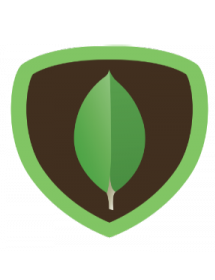
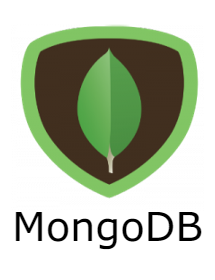
[Skills]: add Component, pictures and test

diff --git a/src/Components/Skills/Skills.jsx b/src/Components/Skills/Skills.jsx
@@ -1,0 +1,81 @@
+import React from "react";
+
+function Skills() {
+	return (
+		<section id="skills" className="pt-16 text-center">
+			<div className="blue-divider w-24 h-1 bg-blue mx-auto"></div>
+			<h2 className="my-2 uppercase ">Compétences</h2>
+			<div className="mt-16">
+				<div className="flex flex-col md:flex-row justify-center items-center">
+					<div className="mb-10 md:mb-16 md:mx-10">
+						<img className="w-1/2 mx-auto" src="/skills/html5.png" alt="Logo HTML5" />
+					</div>
+					<div className="mb-10 md:mb-16 md:mx-10">
+						<img className="w-1/2 mx-auto" src="/skills/css.png" alt="Logo CSS3" />
+					</div>
+					<div className="mb-10 md:mb-16 md:mx-10">
+						<img className="w-1/2 mx-auto" src="/skills/js.png" alt="Logo Javascript" />
+					</div>
+				</div>
+				<div className="flex flex-col md:flex-row justify-center items-center">
+					<div className="mb-10 md:mb-16 md:mx-10">
+						<img className="w-1/2 mx-auto" src="/skills/bootstrap.png" alt="Logo Bootstrap" />
+					</div>
+					<div className="mb-10 md:mb-16 md:mx-10">
+						<img className="w-1/2 mx-auto" src="/skills/sass.png" alt="Logo Sass" />
+					</div>
+					<div className="mb-10 md:mb-16 md:mx-10">
+						<img className="w-1/2 mx-auto" src="/skills/tailwind.png" alt="Logo Tailwind" />
+					</div>
+				</div>
+				<div className="flex flex-col md:flex-row justify-center items-center">
+					<div className="mb-10 md:mb-16 md:mx-10">
+						<img className="w-1/2 mx-auto" src="/skills/react.png" alt="Logo React" />
+					</div>
+					<div className="mb-10 md:mb-16 md:mx-10">
+						<img className="w-1/2 mx-auto" src="/skills/redux.png" alt="Logo Redux" />
+					</div>
+					<div className="mb-10 md:mb-16 md:mx-10">
+						<img className="w-1/2 mx-auto" src="/skills/next.png" alt="Logo NextJS" />
+					</div>
+				</div>
+				<div className="flex flex-col md:flex-row justify-center items-center">
+					<div className="mb-10 md:mb-16 md:mx-10">
+						<img className="w-1/2 mx-auto" src="/skills/node.png" alt="Logo Node" />
+					</div>
+					<div className="mb-10 md:mb-16 md:mx-10">
+						<img className="w-1/2 mx-auto" src="/skills/express.png" alt="Logo ExpressJS" />
+					</div>
+					<div className="mb-10 md:mb-16 md:mx-10">
+						<div className="skills-logo">
+							<img className="w-1/2 mx-auto" src="/skills/java.png" alt="Logo Java" />
+						</div>
+					</div>
+				</div>
+				<div className="flex flex-col md:flex-row justify-center items-center">
+					<div className="mb-10 md:mb-16 md:mx-10">
+						<img className="w-1/2 mx-auto" src="/skills/mongo.png" alt="Logo MongoDB" />
+					</div>
+					<div className="mb-10 md:mb-16 md:mx-10">
+						<img className="w-1/2 mx-auto" src="/skills/postgresql.png" alt="Logo Postgresql" />
+					</div>
+					<div className="mb-10 md:mb-16 md:mx-10">
+						<div className="skills-logo">
+							<img className="w-1/2 mx-auto" src="/skills/my_sql.png" alt="Logo My SQL" />
+						</div>
+					</div>
+				</div>
+				<div className="flex flex-col md:flex-row justify-center items-center">
+					<div className="mb-10 md:mb-16 md:mx-10">
+						<img className="w-1/2 mx-auto" src="/skills/git.png" alt="Logo Git" />
+					</div>
+					<div className="mb-10 md:mb-16 md:mx-10">
+						<img className="w-1/2 mx-auto" src="/skills/vba.png" alt="Logo VisualBasic" />
+					</div>
+				</div>
+			</div>
+		</section>
+	);
+}
+
+export default Skills;

diff --git a/src/Components/Navbar/Navbar.jsx b/src/Components/Navbar/Navbar.jsx
@@ -3,8 +3,8 @@ import { MenuIcon, XIcon } from "@heroicons/react/outline";
 import { Link } from "react-router-dom";
 
 const navigation = [
-	{ name: "Moi", href: "#about", current: true },
-	{ name: "Compétences", href: "#competences", current: false },
+	{ name: "A propos", href: "#about", current: true },
+	{ name: "Compétences", href: "#skills", current: false },
 	{ name: "Expériences", href: "#xp", current: false },
 	{ name: "Portfolio", href: "#portfolio", current: false },
 	{ name: "Education", href: "#education", current: false },
@@ -18,7 +18,7 @@ function classNames(...classes) {
 
 export default function Navbar() {
 	return (
-		<Disclosure as="nav" className="bg-blue border-b-2 border-gray-200">
+		<Disclosure as="nav" className="w-full bg-blue border-b-2 border-gray-200 fixed">
 			{({ open }) => (
 				<>
 					<div className="max-w-7xl mx-auto px-2 sm:px-6 lg:px-8">

diff --git a/src/Components/About/About.jsx b/src/Components/About/About.jsx
@@ -9,7 +9,7 @@ function About() {
 
 	return (
 		<section id="about" className="bg-blue px-5 py-4 md:py-8 text-white text-center">
-			<div className="h-screen">
+			<div className="h-screen pt-8">
 				<div className="w-3/4 md:w-1/4 mx-auto py-4">
 					<img src="/me.jpg" alt="Photo de Julie Desvaux" className="rounded-full mx-auto" />
 				</div>
@@ -49,7 +49,7 @@ function About() {
 					<span>Télécharger CV</span>
 				</button>
 			</div>
-			<div className="px-16 text-left">
+			<div className="py-6 md:py-8 px-2 md:px-16 text-left">
 				<p className="pb-4">
 					Après 10 ans dans le secteur de la logistique où j'ai appris à développer des outils informatiques
 					d'analyses sous VisualBasic, j'ai découvert que le développement me passionnais.J'ai donc décidé de

diff --git a/src/Components/Skills/Skills.test.js b/src/Components/Skills/Skills.test.js
@@ -1,0 +1,31 @@
+import { render, screen, fireEvent } from "@testing-library/react";
+
+import Skills from "./Skills";
+
+test("renders images for skills", () => {
+	const imgs = [
+		"Logo HTML5",
+		"Logo CSS3",
+		"Logo Javascript",
+		"Logo Bootstrap",
+		"Logo Sass",
+		"Logo Tailwind",
+		"Logo React",
+		"Logo Redux",
+		"Logo NextJS",
+		"Logo Node",
+		"Logo ExpressJS",
+		"Logo Java",
+		"Logo MongoDB",
+		"Logo Postgresql",
+		"Logo My SQL",
+		"Logo Git",
+		"Logo VisualBasic",
+	];
+	render(<Skills />);
+	const images = screen.getAllByRole("img");
+	expect(images.length).toBe(imgs.length);
+	images.forEach((image, index) => {
+		expect(image).toHaveAttribute("alt", imgs[index]);
+	});
+});

diff --git a/src/Components/Navbar/Navbar.test.js b/src/Components/Navbar/Navbar.test.js
@@ -12,13 +12,13 @@ it("should display links", () => {
 			<Navbar />
 		</Router>
 	);
-	const linkMoi = getByText(/moi/i);
+	const linkMoi = getByText(/a propos/i);
 	expect(linkMoi).toBeInTheDocument();
 	expect(linkMoi).toHaveAttribute("href", "/#about");
 
 	const linkCompetences = getByText(/compétences/i);
 	expect(linkCompetences).toBeInTheDocument();
-	expect(linkCompetences).toHaveAttribute("href", "/#competences");
+	expect(linkCompetences).toHaveAttribute("href", "/#skills");
 
 	const linkXP = getByText(/expériences/i);
 	expect(linkXP).toBeInTheDocument();

diff --git a/src/App.js b/src/App.js
@@ -1,6 +1,7 @@
 // COMPONENTS
 import Navbar from "./Components/Navbar/Navbar";
 import About from "./Components/About/About";
+import Skills from "./Components/Skills/Skills";
 
 // CSS
 import "./App.scss";
@@ -10,6 +11,7 @@ function App() {
 		<div className="container-app">
 			<Navbar />
 			<About />
+			<Skills />
 		</div>
 	);
 }

diff --git a/src/Components/About/About.test.js b/src/Components/About/About.test.js
@@ -2,7 +2,7 @@ import { render, screen, fireEvent } from "@testing-library/react";
 
 import About from "./About";
 
-test("renders julie desvaux", () => {
+test("renders button for download cv", () => {
 	render(<About />);
 	const linkElement = screen.getByText(/julie desvaux/i);
 	expect(linkElement).toBeInTheDocument();

diff --git a/src/index.scss b/src/index.scss
@@ -21,7 +21,7 @@ h1 {
 }
 
 h2 {
-	font-size: 2rem;
+	font-size: 2.2rem;
 }
 
 p {
